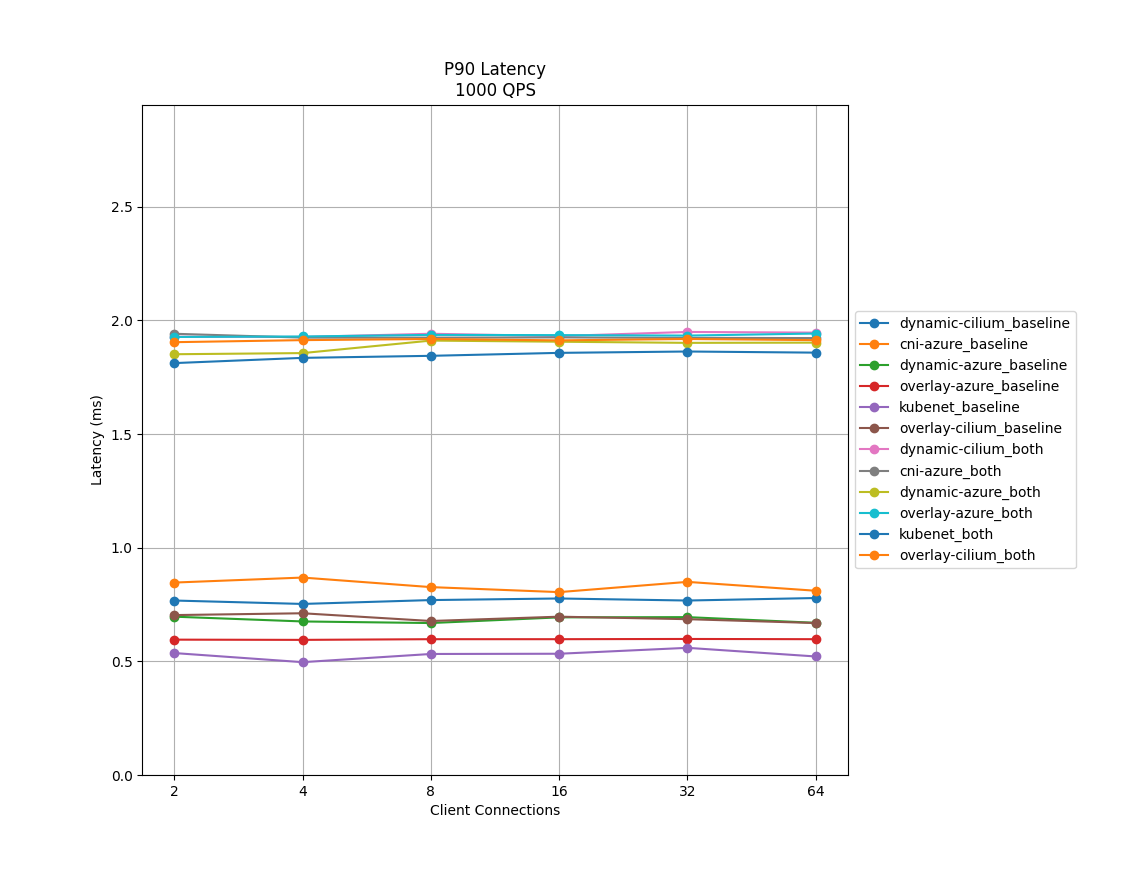
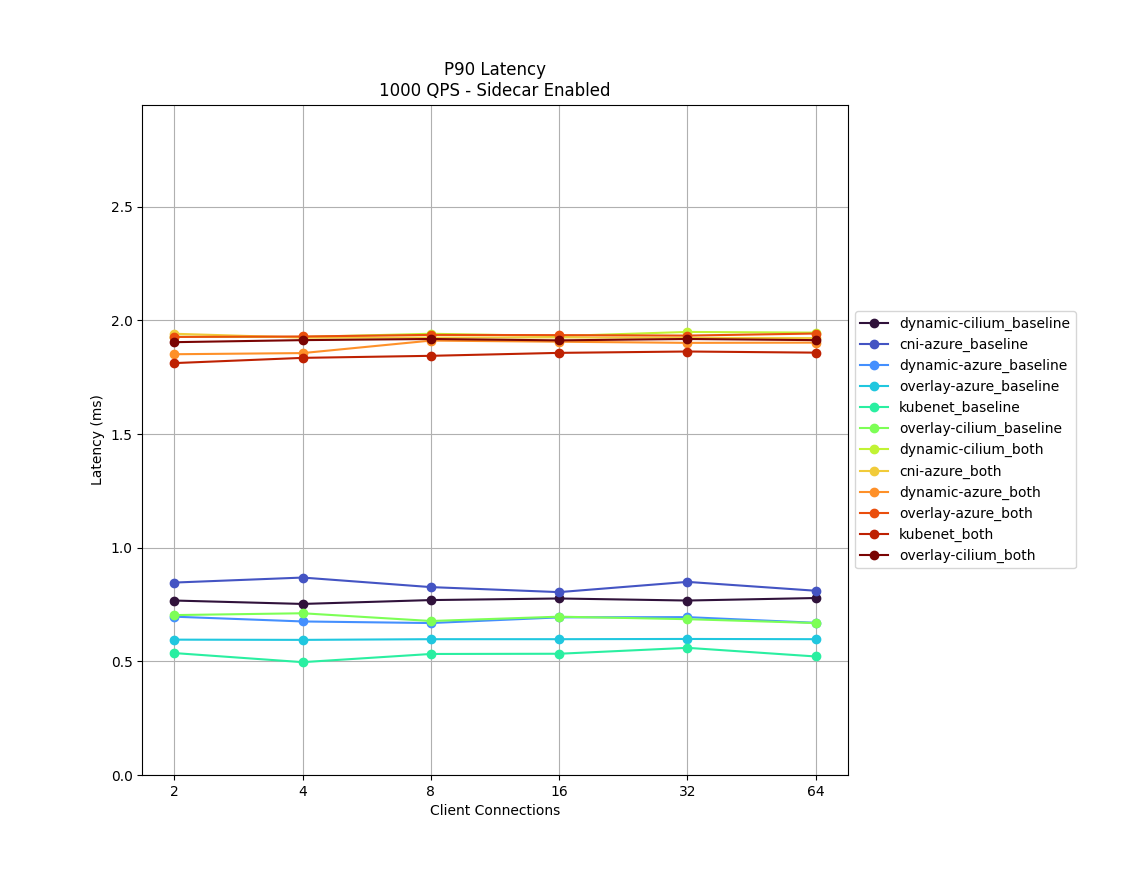
update graphs for distinct colors and add note on cilium version used and latency variation

diff --git a/articles/aks/istio-scale.md b/articles/aks/istio-scale.md
@@ -8,7 +8,7 @@ ms.author: shalierxia
 ---
 
 # **Istio service mesh add-on performance**
-The Istio-based service mesh add-on is logically split into control plane (`istiod`) and data plane. The data plane is composed of Envoy sidecar proxies inside workload pods. Istiod manages and configures these Envoy proxies. This document provides an analysis of the add-on’s control and data plane performance across network plugins available in Azure Kubernetes Service (AKS) - Kubenet, Azure CNI, Azure CNI Dynamic IP Allocation, and Azure CNI Overlay. Additionally, it showcases testing the Cilium network data plane with the latter two network plugins.
+The Istio-based service mesh add-on is logically split into control plane (`istiod`) and data plane. The data plane is composed of Envoy sidecar proxies inside workload pods. Istiod manages and configures these Envoy proxies. This document provides an analysis of the add-on’s control and data plane performance across network plugins available in Azure Kubernetes Service (AKS) - Kubenet, Azure CNI, Azure CNI Dynamic IP Allocation, and Azure CNI Overlay. Additionally, it showcases testing the Cilium network data plane v1.12.10 with the latter two network plugins.
 
 ## Control Plane Performance
 [Istiod’s CPU and memory requirements][control-plane-performance] correlate with the rate of deployment and configuration changes and the number of proxies connected. To determine Istiod’s performance in revision asm-1-18, a single `istiod` instance with the default settings: `2 vCPU` and `2 GB` memory is used with horizontal pod autoscaling disabled. The scenarios tested were:
@@ -22,7 +22,7 @@ The [ClusterLoader2 framework][clusterloader2] was used to determine the maximum
 #### Sidecar Capacity and Istiod CPU and Memory
 
 |**Azure CNI**|||||
-|-------------|-----------------------------|--------------------|----------------------|--------------|
+|-----------------|---------------------------------|------------------------|--------------------------|------------------|
 |   **Churn (%)** | **Churn Rate (sidecars/sec)**   |   **Sidecar Capacity** |   **Istiod Memory (GB)** |   **Istiod CPU** |
 |           0 | --                          |              15000 |                 17.3 |           11 |
 |          25 | 41.7                        |              15000 |                 20.4 |           13 |
@@ -30,7 +30,7 @@ The [ClusterLoader2 framework][clusterloader2] was used to determine the maximum
 
 
 |**Azure CNI Dynamic IP**|||||
-|-------------|-----------------------------|--------------------|----------------------|--------------|
+|-----------------|---------------------------------|------------------------|--------------------------|------------------|
 |   **Churn (%)** | **Churn Rate (sidecars/sec)**   |   **Sidecar Capacity** |   **Istiod Memory (GB)** |   **Istiod CPU** |
 |           0 | --                          |              35000 |                 41.1 |           13 |
 |          25 | 50.0                        |              30000 |                 42.6 |           12 |
@@ -38,7 +38,7 @@ The [ClusterLoader2 framework][clusterloader2] was used to determine the maximum
 
 
 |**Azure CNI Dynamic IP with Cilium**|||||
-|-------------|-----------------------------|--------------------|----------------------|--------------|
+|-----------------|---------------------------------|------------------------|--------------------------|------------------|
 |   **Churn (%)** | **Churn Rate (sidecars/sec)**   |   **Sidecar Capacity** |   **Istiod Memory (GB)** |   **Istiod CPU** |
 |           0 | --                          |              20000 |                 23.1 |           11 |
 |          25 | 31.2                        |              15000 |                 20.5 |           11 |
@@ -46,7 +46,7 @@ The [ClusterLoader2 framework][clusterloader2] was used to determine the maximum
 
 
 |**Kubenet**|||||
-|-------------|-----------------------------|--------------------|----------------------|--------------|
+|-----------------|---------------------------------|------------------------|--------------------------|------------------|
 |   **Churn (%)** | **Churn Rate (sidecars/sec)**   |   **Sidecar Capacity** |   **Istiod Memory (GB)** |   **Istiod CPU** |
 |           0 | --                          |              35000 |                 40.7 |           14 |
 |          25 | 50.0                        |              30000 |                 41.7 |           14 |
@@ -54,7 +54,7 @@ The [ClusterLoader2 framework][clusterloader2] was used to determine the maximum
 
 
 |**Azure CNI Overlay**|||||
-|-------------|-----------------------------|--------------------|----------------------|--------------|
+|-----------------|---------------------------------|------------------------|--------------------------|------------------|
 |   **Churn (%)** | **Churn Rate (sidecars/sec)**   |   **Sidecar Capacity** |   **Istiod Memory (GB)** |   **Istiod CPU** |
 |           0 | --                          |              35000 |                 40.9 |           14 |
 |          25 | 50.0                        |              30000 |                 42.9 |           12 |
@@ -62,7 +62,7 @@ The [ClusterLoader2 framework][clusterloader2] was used to determine the maximum
 
 
 |**Azure CNI Overlay with Cilium**|||||
-|-------------|-----------------------------|--------------------|----------------------|--------------|
+|-----------------|---------------------------------|------------------------|--------------------------|------------------|
 |   **Churn (%)** | **Churn Rate (sidecars/sec)**   |   **Sidecar Capacity** |   **Istiod Memory (GB)** |   **Istiod CPU** |
 |           0 | --                          |              15000 |                 17.1 |           10 |
 |          25 | 41.7                        |              10000 |                 12.9 |            8 |
@@ -73,14 +73,14 @@ The [ClusterLoader2 framework][clusterloader2] was used to determine the maximum
 The [ClusterLoader2 framework][clusterloader2] was used to determine the maximum number of sidecars `istiod` can manage with 1,000 services. Each service had `N` sidecars contributing to the overall maximum sidecar count. The API Server resource usage was observed to determine if there's any significant stress from the add-on.
 
 |**Sidecar Capacity**||||||
-|-------------|------------------------|------------------------------------|-----------|---------------------|---------------------------------|
+|-----------------|----------------------------|----------------------------------------|---------------|-------------------------|-------------------------------------|
 |   **Azure CNI** |   **Azure CNI Dynamic IP** |   **Azure CNI Dynamic IP with Cilium** |   **Kubenet** |   **Azure CNI Overlay** |   **Azure CNI Overlay with Cilium** |
 |       15000 |                  20000 |                              20000 |     20000 |               20000 |                           15000 |
 
 
 |**CPU and Memory**|||||||
-|------------------------|-------------|------------------------|------------------------------------|-----------|---------------------|---------------------------------|
-| **Resource**               |   **Azure CNI** |   **Azure CNI Dynamic IP** |   **Azure CNI Dynamic IP with Cilium** |   **Kubenet** |   **Azure CNI Overlay** |   **Azure CNI Overlay with Cilium** |
+|------------------------|-----------------|----------------------------|--------------------------------------|--------------|-----------------------|-----------------------------------|
+| **Resource**           |   **Azure CNI** |   **Azure CNI Dynamic IP** | **Azure CNI Dynamic IP with Cilium** |  **Kubenet** | **Azure CNI Overlay** | **Azure CNI Overlay with Cilium** |
 | API Server Memory (GB) |         4.8 |                    9   |                                9   |       7.6 |                 7.4 |                             6.9 |
 | API Server CPU         |         3.6 |                    4.4 |                                4.5 |       3.6 |                 4.3 |                             4.3 |
 | Istiod Memory (GB)     |        33.7 |                   41.8 |                               43.9 |      40.9 |                42.8 |                            32.1 |
@@ -90,7 +90,7 @@ The [ClusterLoader2 framework][clusterloader2] was used to determine the maximum
 ## Data Plane Performance
 Various factors impact [sidecar performance][data-plane-performance] such as request size, number of proxy worker threads, and number of client connections. Additionally, any request flowing through the mesh traverses the client-side proxy and then the server-side proxy. Therefore, latency and resource consumption are measured to determine the data plane performance.
 
-[Fortio][fortio] was used to create the load. The test was conducted with the [Istio benchmark repository][istio-benchmark] that was modified for use with the add-on. The test involved a 1 KB payload, 1000 QPS, 2 proxy workers, utilized `http/1.1` protocol and mutual TLS enabled at various client connections. 
+[Fortio][fortio] was used to create the load. The test was conducted with the [Istio benchmark repository][istio-benchmark] that was modified for use with the add-on. The test involved a 1 KB payload, 1000 QPS, 2 proxy workers, utilized `http/1.1` protocol and mutual TLS enabled at various client connections.
 
 #### CPU and Memory
 The memory and CPU usage for both the client and server proxy for 16 client connections and 1000 QPS across all network plugin scenarios is roughly 0.4 v CPU and 72 MB. 
@@ -105,7 +105,7 @@ The following analysis evaluates the impact of adding sidecar proxies to the dat
 
 [ ![Diagram that compares P99 latency for AKS network plugins.](./media/aks-istio-addon/latency-graphs/latency-p99__1000qps.png) ](./media/aks-istio-addon/latency-graphs/latency-p99__1000qps.png#lightbox)
 
-
+> *Has latency variation ± 0.5 ms
 ## Service Entry
 Istio features a custom resource definition known as a ServiceEntry that enables adding other services into the Istio’s internal service registry. A [ServiceEntry][serviceentry] allows services already in the mesh to route or access the services specified. However, the configuration of multiple ServiceEntries with the `resolution` field set to DNS can cause a [heavy load on DNS servers][understanding-dns]. The following suggestions can help reduce the load:
 
